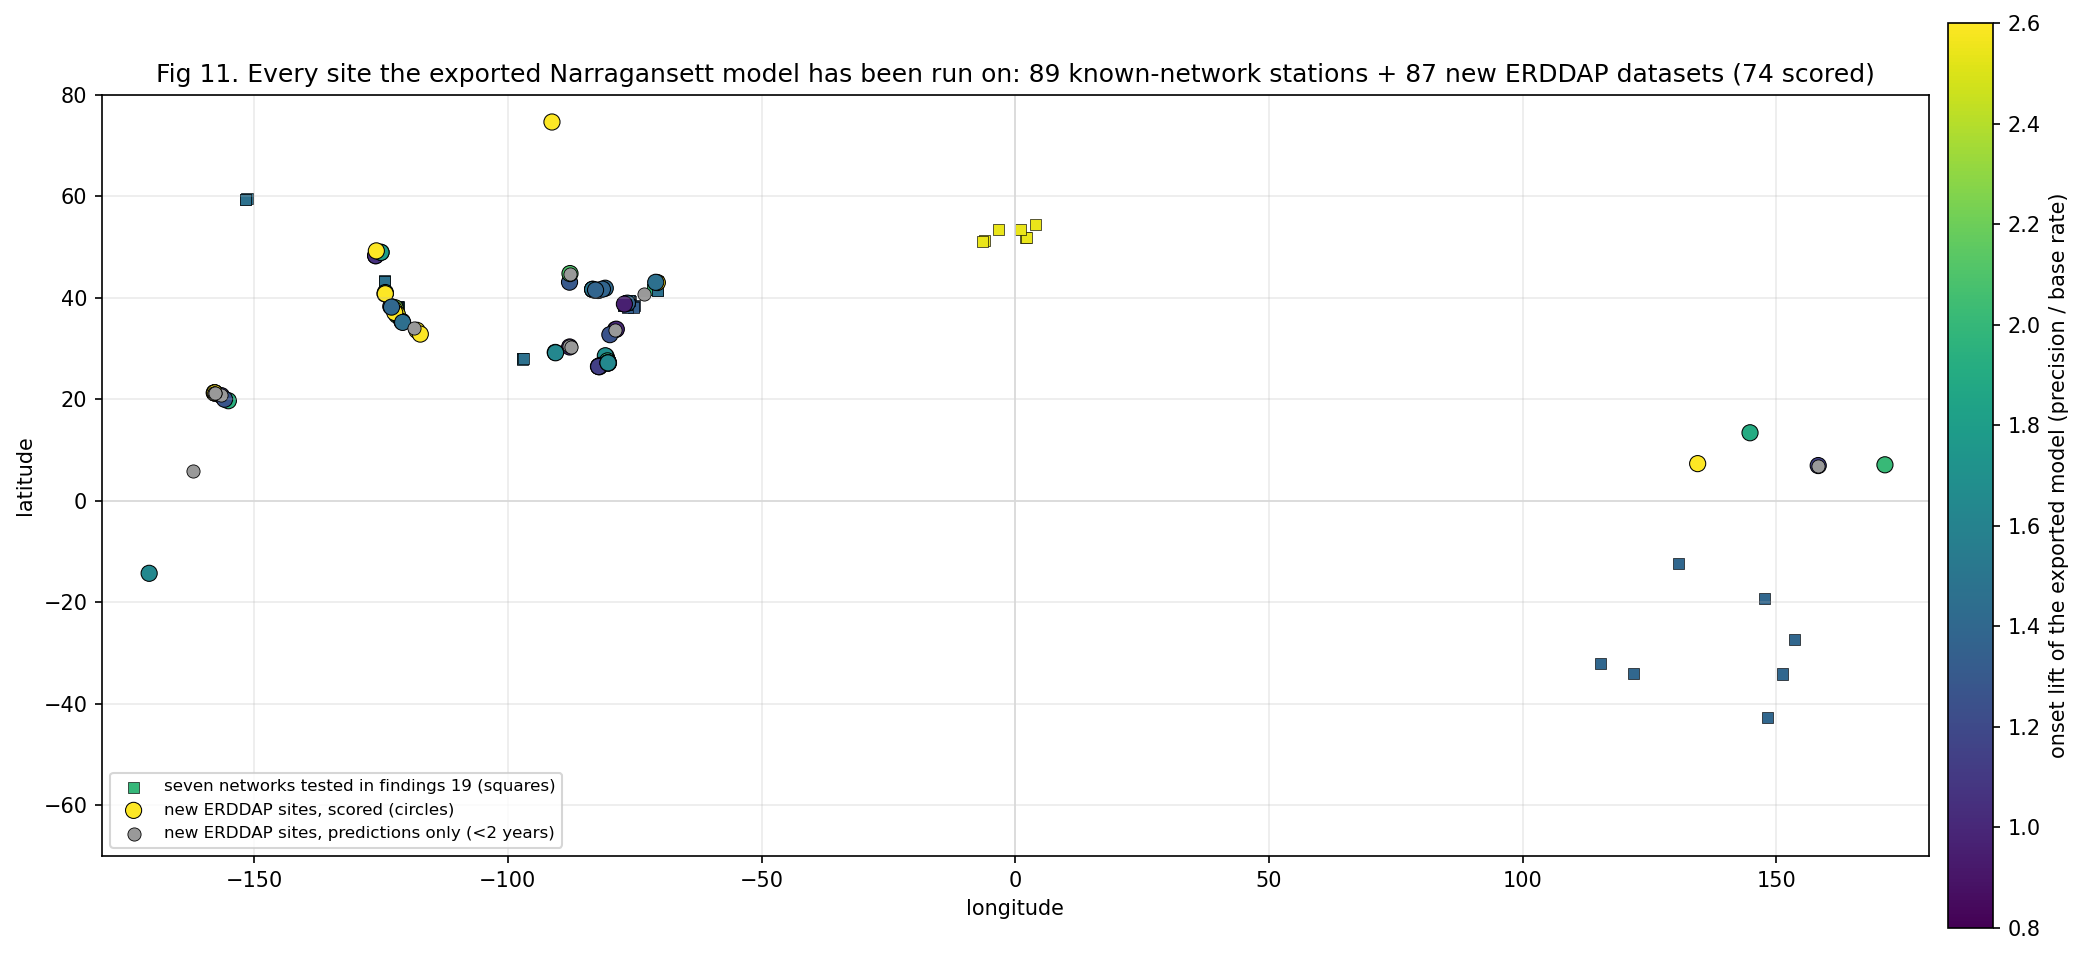
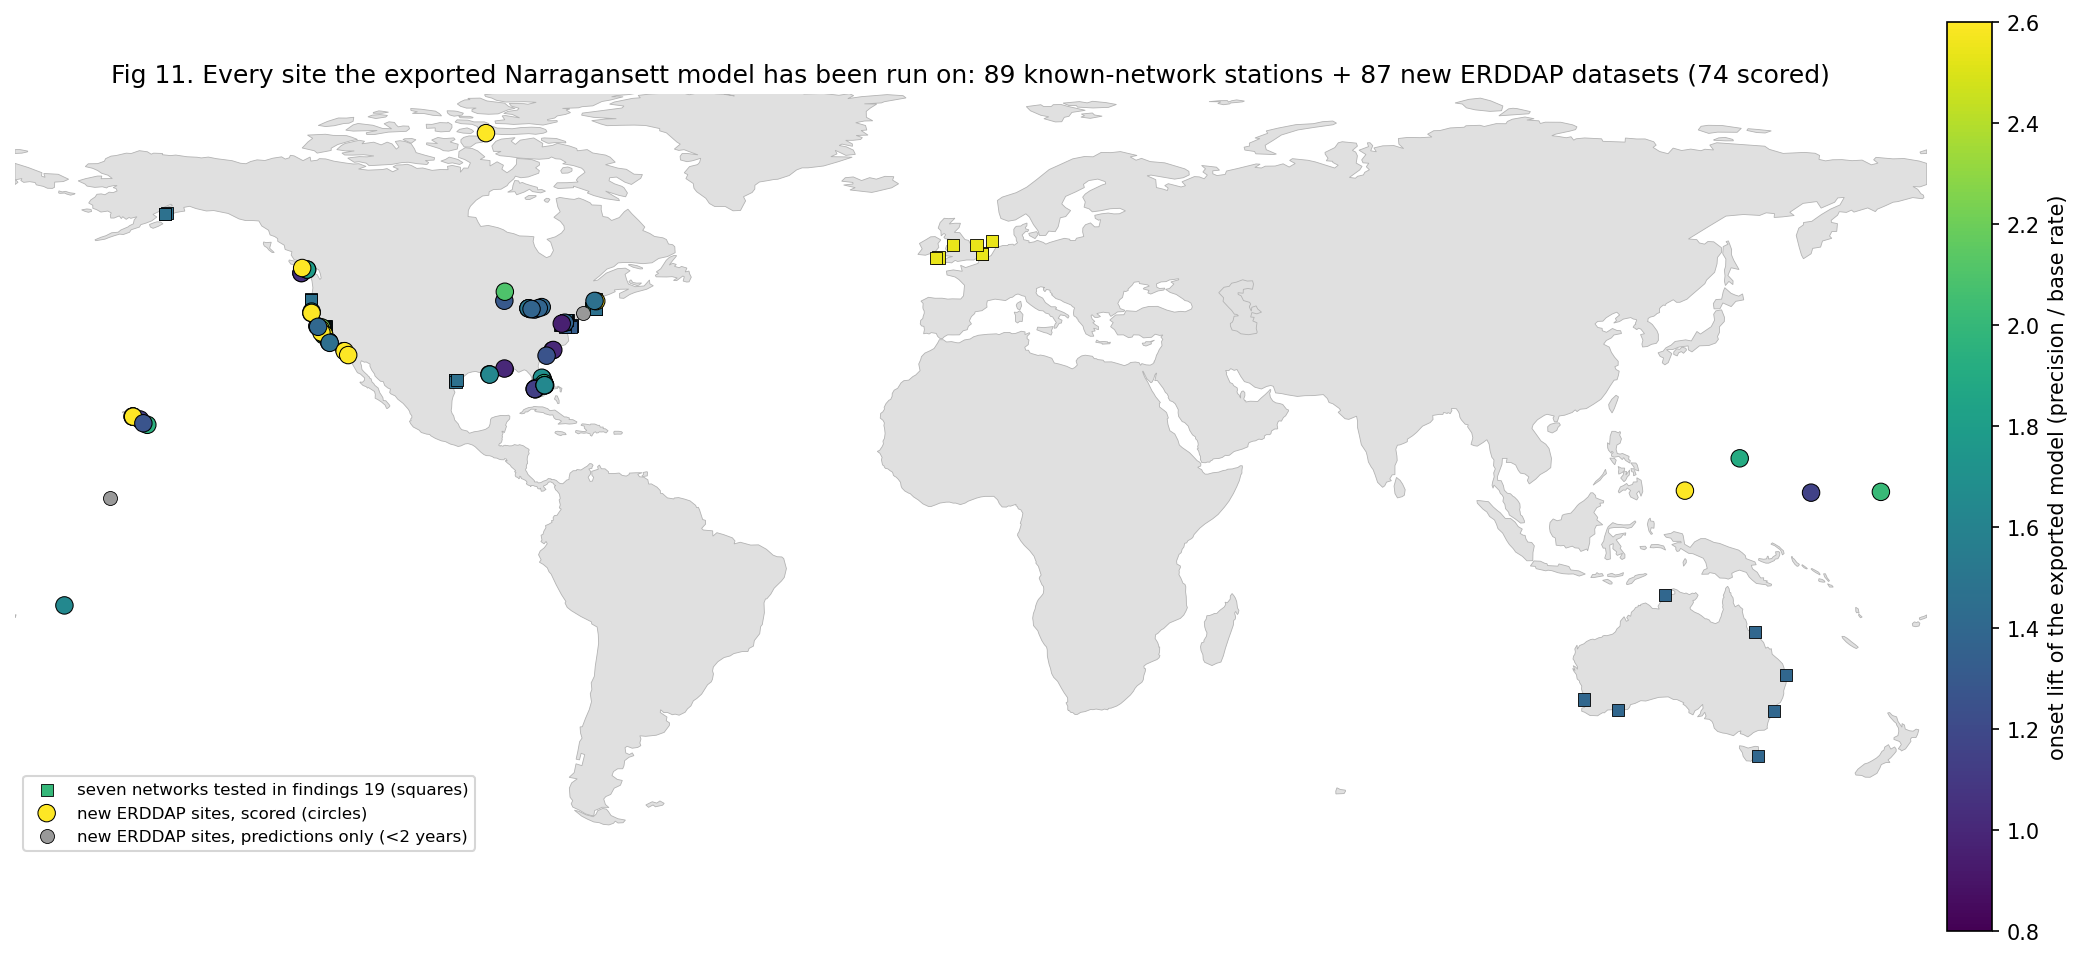
fig 11: minimalist Natural Earth basemap

diff --git a/src/viz/registry_map.py b/src/viz/registry_map.py
@@ -46,23 +46,34 @@ for src in st.source.unique():
 known = pd.concat(known)
 
 fig, ax = plt.subplots(figsize=(14, 6.5))
-ax.set_xlim(-180, 180); ax.set_ylim(-70, 80); ax.set_aspect("equal")
-ax.axhline(0, color="0.85", lw=0.8); ax.axvline(0, color="0.85", lw=0.8); ax.grid(alpha=0.25)
+ax.set_xlim(-180, 180); ax.set_ylim(-62, 82); ax.set_aspect("equal")
+# minimalist basemap: Natural Earth 110 m land polygons (figures/data/ne_110m_land.geojson), plain matplotlib
+import json
+from matplotlib.patches import Polygon as MplPolygon
+land = "figures/data/ne_110m_land.geojson"
+if os.path.exists(land):
+    for feat in json.load(open(land, encoding="utf-8"))["features"]:
+        geom = feat["geometry"]
+        polys = geom["coordinates"] if geom["type"] == "Polygon" else [p for mp in geom["coordinates"] for p in mp]
+        for ring in polys:
+            ax.add_patch(MplPolygon(ring, closed=True, facecolor="0.88", edgecolor="0.7", linewidth=0.4, zorder=0))
+ax.set_facecolor("white")
+for sp in ax.spines.values(): sp.set_visible(False)
+ax.set_xticks([]); ax.set_yticks([])
 vmin, vmax = 0.8, 2.6
-sc = ax.scatter(known.lon, known.lat, c=known.lift, cmap="viridis", vmin=vmin, vmax=vmax, s=28, marker="s",
-                edgecolor="k", linewidth=0.3, label="seven networks tested in findings 19 (squares)")
+sc = ax.scatter(known.lon, known.lat, c=known.lift, cmap="viridis", vmin=vmin, vmax=vmax, s=34, marker="s",
+                edgecolor="k", linewidth=0.4, zorder=3, label="seven networks tested in findings 19 (squares)")
 n_sc = 0
 if len(new):
     scored = new.dropna(subset=["lift"]); unscored = new[new.lift.isna()]; n_sc = len(scored)
     if len(scored):
-        ax.scatter(scored.lon, scored.lat, c=scored.lift, cmap="viridis", vmin=vmin, vmax=vmax, s=60, marker="o",
-                   edgecolor="k", linewidth=0.5, label="new ERDDAP sites, scored (circles)")
+        ax.scatter(scored.lon, scored.lat, c=scored.lift, cmap="viridis", vmin=vmin, vmax=vmax, s=70, marker="o",
+                   edgecolor="k", linewidth=0.5, zorder=4, label="new ERDDAP sites, scored (circles)")
     if len(unscored):
-        ax.scatter(unscored.lon, unscored.lat, color="0.6", s=40, marker="o", edgecolor="k", linewidth=0.4,
+        ax.scatter(unscored.lon, unscored.lat, color="0.6", s=45, marker="o", edgecolor="k", linewidth=0.4, zorder=3,
                    label="new ERDDAP sites, predictions only (<2 years)")
 cb = fig.colorbar(sc, ax=ax, fraction=0.025, pad=0.01)
 cb.set_label("onset lift of the exported model (precision / base rate)")
-ax.set_xlabel("longitude"); ax.set_ylabel("latitude")
 ax.set_title(f"Fig 11. Every site the exported Narragansett model has been run on: "
              f"{st.station.nunique()} known-network stations + {len(new)} new ERDDAP datasets ({n_sc} scored)")
 ax.legend(loc="lower left", fontsize=8)
